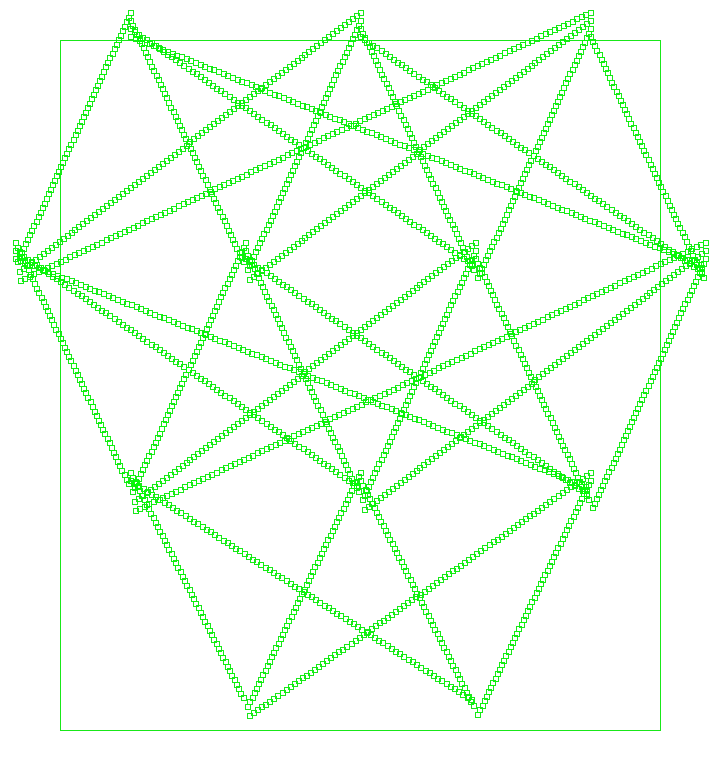
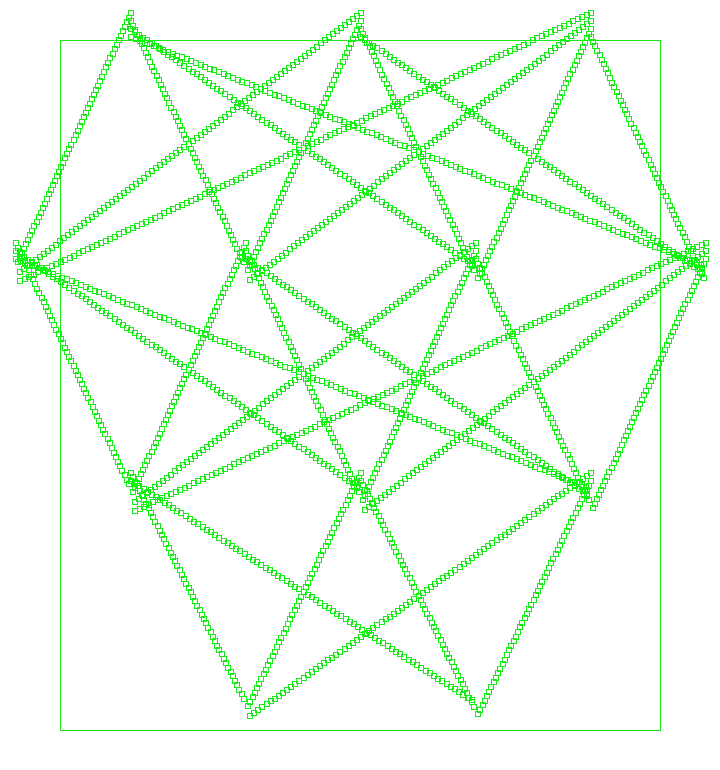
removed black glitch changed from weight to led mapping (with weight connection)

diff --git a/src/main/kotlin/ch/bildspur/anna/scene/VideoInputScene.kt b/src/main/kotlin/ch/bildspur/anna/scene/VideoInputScene.kt
@@ -7,16 +7,14 @@ import ch.bildspur.anna.mapping.LineFixture
 import ch.bildspur.anna.mapping.PixelMapper
 import ch.bildspur.anna.model.ann.Network
 import ch.bildspur.anna.model.ann.Weight
+import ch.bildspur.anna.model.light.Led
 import ch.bildspur.anna.renderer.VisualisationRenderer
 import ch.bildspur.anna.util.translate
-import jogamp.opengl.awt.Java2D
-import processing.core.PApplet
 import processing.core.PConstants
 import processing.core.PGraphics
 import processing.core.PVector
 import kotlin.concurrent.thread
 import kotlin.concurrent.withLock
-import kotlin.math.roundToInt
 
 class VideoInputScene(network : Network) : BaseScene(network) {
     private val task = TimerTask(40, { update() })
@@ -34,7 +32,7 @@ class VideoInputScene(network : Network) : BaseScene(network) {
 
     val mapper = PixelMapper()
 
-    val weightToFixtureLookup : MutableMap<Weight, Fixture> = mutableMapOf()
+    val ledToFixtureLookup : MutableMap<Led, Fixture> = mutableMapOf()
 
     val padding = PVector(120f, 80f)
 
@@ -53,7 +51,6 @@ class VideoInputScene(network : Network) : BaseScene(network) {
                 // copy frame to buffer
                 syphon.frameLock.withLock {
                     buffer.beginDraw()
-                    buffer.background(0)
                     buffer.image(syphon.frame, 0f, 0f)
                     buffer.endDraw()
                 }
@@ -74,11 +71,16 @@ class VideoInputScene(network : Network) : BaseScene(network) {
         network.weights.forEach {
             val led1Pos = visualisation.getLEDPosition(it.neuron1, it.ledIndex1).translate(translation)
             val led2Pos = visualisation.getLEDPosition(it.neuron2, it.ledIndex2).translate(translation)
+            val center = PVector.lerp(led1Pos, led2Pos, 0.5f)
 
-            val fixture = LineFixture(led1Pos, led2Pos, thickness = 5)
+            val fixture1 = LineFixture(led1Pos, center, thickness = 5)
+            val fixture2 = LineFixture(center, led2Pos, thickness = 5)
 
-            mapper.fixtures.add(fixture)
-            weightToFixtureLookup[it] = fixture
+            mapper.fixtures.add(fixture1)
+            mapper.fixtures.add(fixture2)
+
+            ledToFixtureLookup[it.led1] = fixture1
+            ledToFixtureLookup[it.led2] = fixture2
         }
     }
 
@@ -100,7 +102,7 @@ class VideoInputScene(network : Network) : BaseScene(network) {
 
         map.stroke(0f, 255f, 0f, 230f)
 
-        weightToFixtureLookup.map { it.value }
+        ledToFixtureLookup.map { it.value }
                 .filterIsInstance<LineFixture>()
                 .forEach {fixture ->
                     fixture.subFixtures.forEach {
@@ -129,9 +131,8 @@ class VideoInputScene(network : Network) : BaseScene(network) {
     }
 
     override fun update() {
-        weightToFixtureLookup.forEach { weight, fixture ->
-            weight.led1.color.fade(fixture.color, 1.0f)
-            weight.led2.color.fade(fixture.color, 1.0f)
+        ledToFixtureLookup.forEach { led, fixture ->
+            led.color.fade(fixture.color, 1.0f)
         }
     }
 
